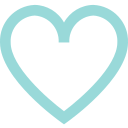
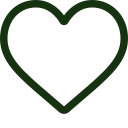
cores e icones novos

diff --git a/style.css b/style.css
@@ -6,7 +6,7 @@
 }
 
 header{
-    background-color: #51B6B6;
+    background-color: #173211e7;
 }
 
 .nav-bar{
@@ -97,7 +97,7 @@ header{
         justify-content: center;    
         width: 50%;
         margin: auto;
-        background-image: linear-gradient(45deg, #51b6b6, #99d9d9);
+        background-image: linear-gradient(45deg, #92703e, #cf9a4a);
         color: white;
         border-radius: 5px;
         text-decoration: none;
@@ -117,7 +117,7 @@ header{
     }
 
     .sobre-nos{
-        border: 1px solid #51B6B6;
+        border: 1px solid #173211;
         border-radius: 20px;
         width: 80%;
         margin: auto;
@@ -127,7 +127,7 @@ header{
 
     .sobre-nos h1{
         font-size: 25px;
-        color: #51B6B6;
+        color: #173211;
         margin-top: 30px;
         margin-bottom: 30px;
         font-weight: 600;
@@ -138,7 +138,7 @@ header{
         font-size: 20px;
         width: 90%;
         margin: auto;
-        color: #51B6B6;
+        color: #173211;
         font-weight: 600;
         padding-bottom: 30px;
         
@@ -153,7 +153,7 @@ header{
 
     .sessao2{
         display: flex;
-        background-image: url('./img/b2alt.png');
+        background-image: linear-gradient(180deg, #173211, #285f1a);
         background-size: cover;
         background-repeat: no-repeat;
         background-position: center;
@@ -194,9 +194,9 @@ header{
 
     .sessao2-servicos{
         max-width: 350px;
-        color: #51B6B6;
+        color: #173211;
         background-color: #fff;
-        border: 1px solid #51B6B6;
+        border: 1px solid #173211;
         border-radius: 5px;
         width: 30%;
         margin-top: 20px;
@@ -224,11 +224,11 @@ header{
 
     .sessao2 a{
         display: flex;
-        border: 1px solid #fff;
+        border: 1px solid #285f1a;
         background-color: #fff;
         border-radius: 5px;
         text-decoration: none;
-        color: #51B6B6;
+        color: #173211;
         font-size: 15px;
         font-weight: 600;
         justify-content: center;
@@ -240,7 +240,7 @@ header{
         animation-timing-function: ease-in-out;
         animation-iteration-count: infinite;
         animation-direction: alternate;
-        box-shadow: #51B6B6 0px 0px 3px 1px inset, #51B6B6 0px 0px 12px 1px;
+        box-shadow: #173211 0px 0px 3px 1px inset, #173211 0px 0px 12px 1px;
     }
 
     @keyframes botao{
@@ -344,7 +344,7 @@ header{
 }
 
 .sobre-nos{
-    border: 1px solid #51B6B6;
+    border: 1px solid #173211;
     border-radius: 20px;
     width: 90%;
     margin: auto;

diff --git a/index.html b/index.html
@@ -96,7 +96,7 @@
             </div>
 
             <div class="sessao2-servicos">
-                <img src="./img/servico_clinica.png" alt="">
+                <img src="./img/exames.png" alt="">
                 <h4>Acompanhamentos</h4>
                 <p>Nossos enfermeiros acompanhando no deslocamento em viagens e exames para trazer mais segurança e tranquilidade.</p>
             </div>
